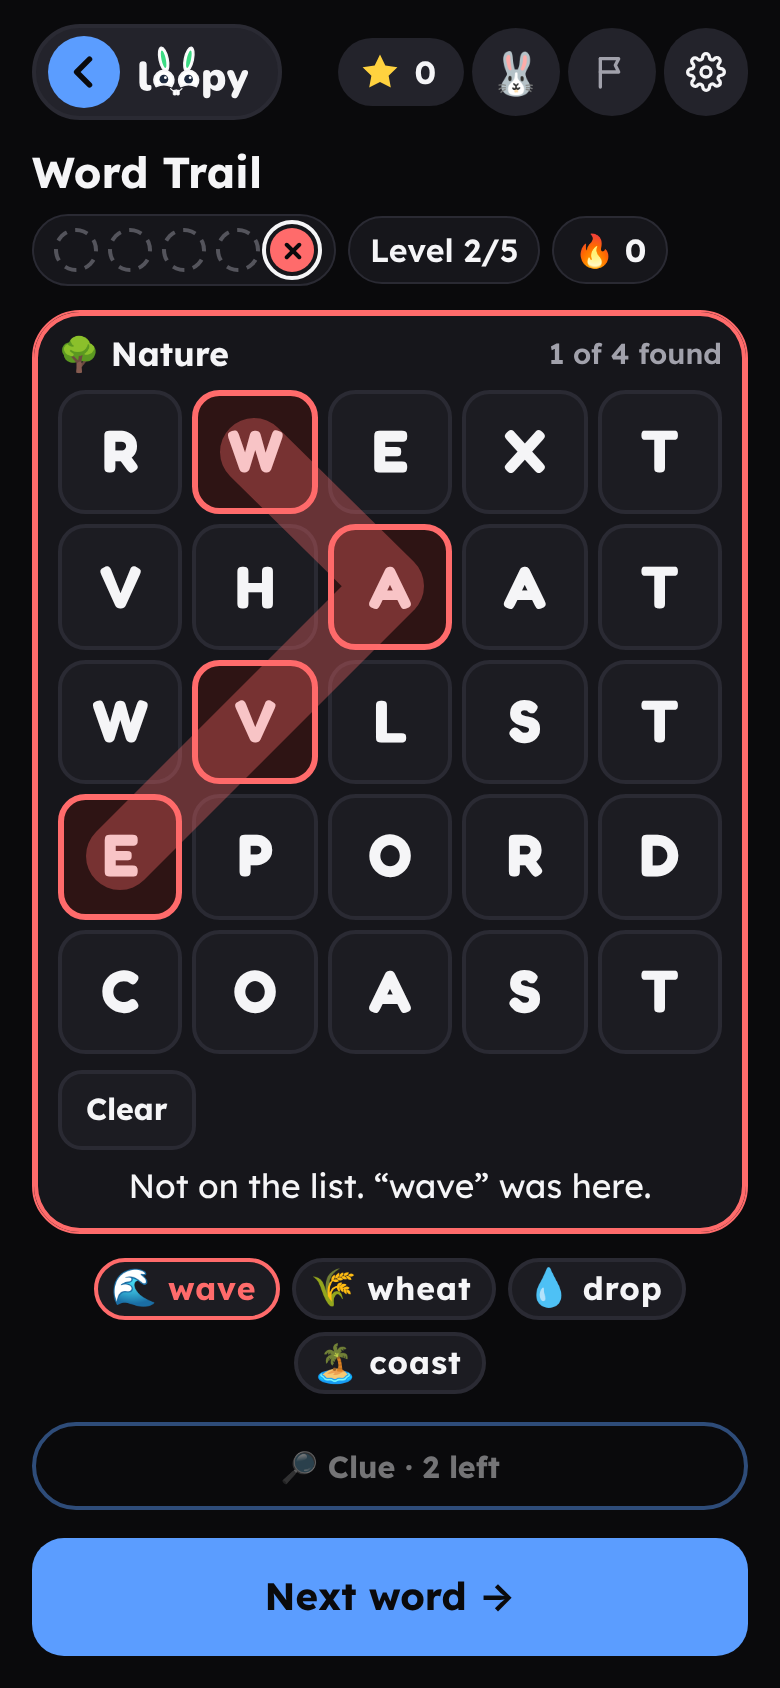
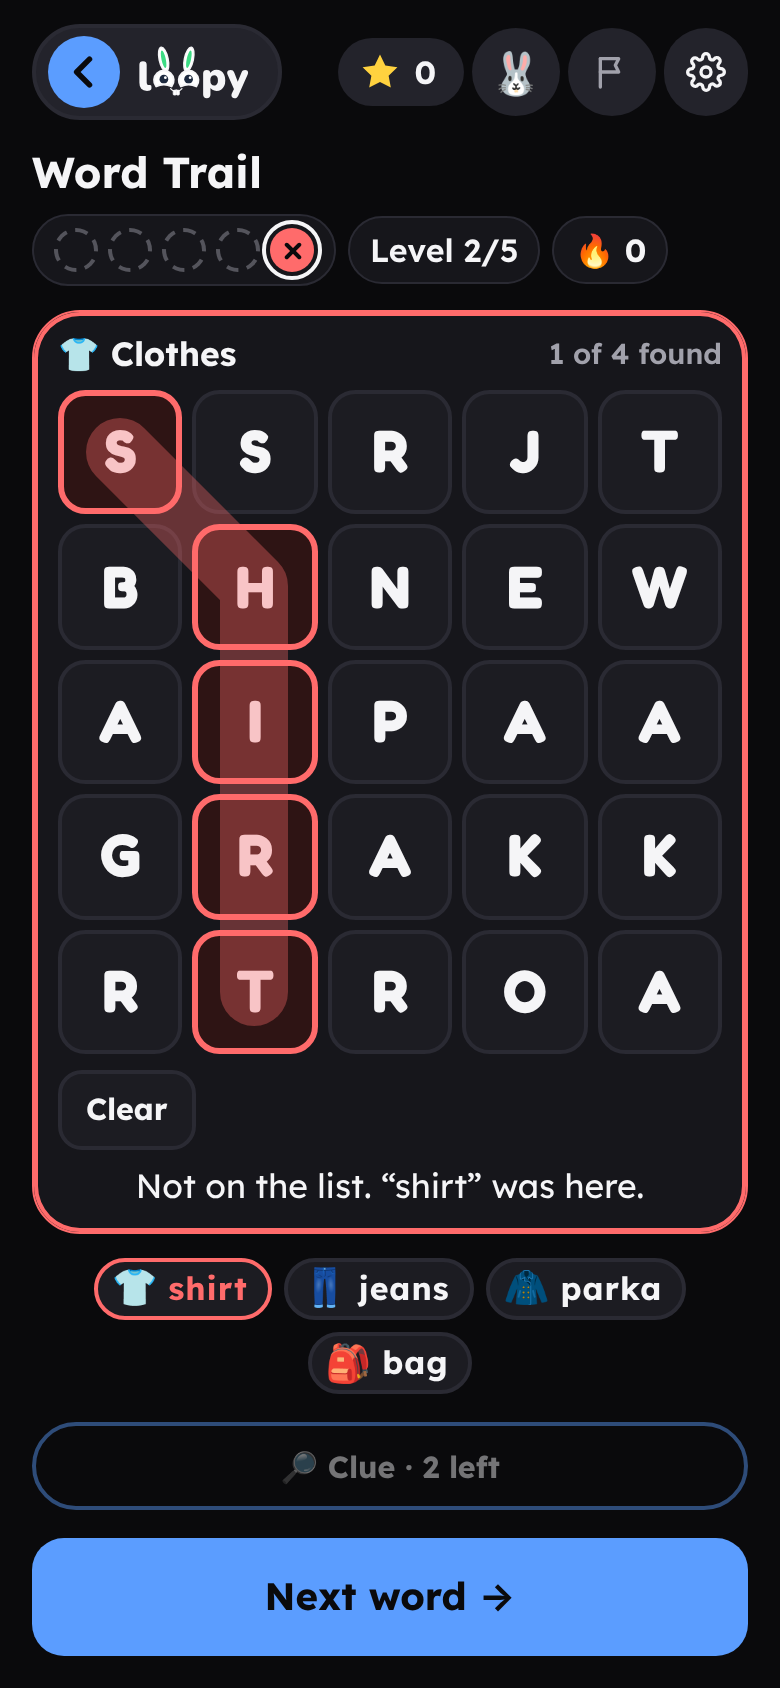
Word Trail: more room for the grid on a tablet held upright
The page is 760px wide on a tablet in portrait instead of 640px, so the
grid takes the room. Bigger letters in big cells, bigger word chips and
a taller Clue button on tablets. The word list sits under the card and
Clue stays at the bottom.

diff --git a/sw.js b/sw.js
@@ -1,5 +1,5 @@
 /* loopy: built from src/sw.js by tools/build.py. Do not edit this file, edit the source. */
-var VERSION="8db463a32160b3ad",FILES={"apple-touch-icon.png":"826eeeca90","fonts/atkinson-latin.woff2":"71c3e56f88","fonts/fredoka-latin-ext.woff2":"18a1723c87","fonts/fredoka-latin.woff2":"3facd28352","fonts/lexend-latin-ext.woff2":"b5d815d420","fonts/lexend-latin.woff2":"35a62e43ae","geography/flags-capitals/data.js":"b641089a33","geography/flags-capitals/":"64315fdff4","geography/where-is-it/data.js":"c8e0bf4f86","geography/where-is-it/":"b552768a16","help/":"822b6f2a39","icon-192.png":"571274d70c","icon-512.png":"dfd4ed3adf","icon-maskable-512.png":"981dcb84db","icon.svg":"3d1a9ed7fd","./":"57e5a7592d","languages/sentence-builder/":"a2606c7ae1","languages/sentence-builder/words.js":"15d02d630a","languages/sound-spell/":"0c2fde4438","languages/sound-spell/words.js":"100ac92ec5","languages/spell-it/":"001e0c3374","languages/spell-it/words.js":"72e87eaa4f","languages/spelling-quiz/":"b497a43315","languages/spelling-quiz/words.js":"9c90832137","languages/word-detective/":"a369dd7558","languages/word-detective/words.js":"62c5968b01","languages/word-match/":"ad5e3099c4","languages/word-trail/":"6421d50bd5","languages/words.js":"ad5f903a46","logo-white.svg":"f6a28d2294","logo.svg":"33f3453587","loopy-backup.js":"f92623ab2d","loopy-install.js":"3c3d79f3e7","loopy-levels.js":"814852b75c","loopy-report.js":"c374c981fa","loopy-sheet.js":"8866d2feb4","loopy-sync.js":"0866d61ab8","loopy.css":"de8276730d","loopy.js":"62f6b0d7c0","manifest.webmanifest":"32d1e2daa8","math/bigger-or-smaller/":"4e67dce547","math/box-multiply/":"cc580bc685","math/coins-change/":"535f5fc48f","math/equation-balance/":"c3315b3c55","math/graphs-data/":"ed5f74ef5d","math/make-10/":"e59ed6180e","math/percent-ratio/":"028a94dda4","math/pizza-fractions/":"1d479f211d","math/plus-minus/":"3cb953f5b6","math/plus-minus-100/":"b149fbb898","math/shapes-angles/":"67dbb0a627","math/step-by-step/":"ee65b66a50","math/times-share/":"c27b0e114f","math/times-sprint/":"ed564f3796","math/what-time-is-it/":"c6b02b8edd","mix/daily-mix/":"f9b732ca31","print.css":"619925ee48","privacy/":"a461f641db","progress/":"f1c7bea29f","science/quick-facts/data.js":"8196c98b79","science/quick-facts/":"753f191d5e","science/sort-it/data.js":"9abc4f3e8a","science/sort-it/":"d7f77a0a37"};
+var VERSION="ebf284c4321da787",FILES={"apple-touch-icon.png":"826eeeca90","fonts/atkinson-latin.woff2":"71c3e56f88","fonts/fredoka-latin-ext.woff2":"18a1723c87","fonts/fredoka-latin.woff2":"3facd28352","fonts/lexend-latin-ext.woff2":"b5d815d420","fonts/lexend-latin.woff2":"35a62e43ae","geography/flags-capitals/data.js":"b641089a33","geography/flags-capitals/":"64315fdff4","geography/where-is-it/data.js":"c8e0bf4f86","geography/where-is-it/":"b552768a16","help/":"822b6f2a39","icon-192.png":"571274d70c","icon-512.png":"dfd4ed3adf","icon-maskable-512.png":"981dcb84db","icon.svg":"3d1a9ed7fd","./":"57e5a7592d","languages/sentence-builder/":"a2606c7ae1","languages/sentence-builder/words.js":"15d02d630a","languages/sound-spell/":"0c2fde4438","languages/sound-spell/words.js":"100ac92ec5","languages/spell-it/":"001e0c3374","languages/spell-it/words.js":"72e87eaa4f","languages/spelling-quiz/":"b497a43315","languages/spelling-quiz/words.js":"9c90832137","languages/word-detective/":"a369dd7558","languages/word-detective/words.js":"62c5968b01","languages/word-match/":"ad5e3099c4","languages/word-trail/":"aac563a6ac","languages/words.js":"ad5f903a46","logo-white.svg":"f6a28d2294","logo.svg":"33f3453587","loopy-backup.js":"f92623ab2d","loopy-install.js":"3c3d79f3e7","loopy-levels.js":"814852b75c","loopy-report.js":"c374c981fa","loopy-sheet.js":"8866d2feb4","loopy-sync.js":"0866d61ab8","loopy.css":"de8276730d","loopy.js":"62f6b0d7c0","manifest.webmanifest":"32d1e2daa8","math/bigger-or-smaller/":"4e67dce547","math/box-multiply/":"cc580bc685","math/coins-change/":"535f5fc48f","math/equation-balance/":"c3315b3c55","math/graphs-data/":"ed5f74ef5d","math/make-10/":"e59ed6180e","math/percent-ratio/":"028a94dda4","math/pizza-fractions/":"1d479f211d","math/plus-minus/":"3cb953f5b6","math/plus-minus-100/":"b149fbb898","math/shapes-angles/":"67dbb0a627","math/step-by-step/":"ee65b66a50","math/times-share/":"c27b0e114f","math/times-sprint/":"ed564f3796","math/what-time-is-it/":"c6b02b8edd","mix/daily-mix/":"f9b732ca31","print.css":"619925ee48","privacy/":"a461f641db","progress/":"f1c7bea29f","science/quick-facts/data.js":"8196c98b79","science/quick-facts/":"753f191d5e","science/sort-it/data.js":"9abc4f3e8a","science/sort-it/":"d7f77a0a37"};
 var CACHE="loopy-"+VERSION;var LIST=new URL("loopy-files",self.location).href;var SAVED={};Object.keys(FILES).forEach(function(f){SAVED[new URL(f,self.location).href]=FILES[f];});function key(url){var u=new URL(url);u.search="";u.hash="";u.pathname=u.pathname.replace(/\/index\.html$/,"/").replace(/\/([^\/.]+)$/,"/$1/");return u.href;}
 function oldCopy(){return caches.keys().then(function(names){return Promise.all(names.filter(function(n){return n.indexOf("loopy-")===0&&n!==CACHE;}).map(function(n){return caches.open(n).then(function(cache){return cache.match(LIST).then(function(r){return r?r.json():null;}).then(function(list){if(!list||typeof list!=="object")return null;var same=Object.keys(SAVED).filter(function(url){return list[url]===SAVED[url];}).length;return{cache:cache,list:list,same:same};});}).catch(function(){return null;});}));}).then(function(copies){return copies.reduce(function(best,c){return c&&(!best||c.same>best.same)?c:best;},null);}).catch(function(){return null;});}
 function matches(res,want){if(!res||!self.crypto||!crypto.subtle)return Promise.resolve(!!res);return res.clone().arrayBuffer().then(function(buf){return crypto.subtle.digest("SHA-256",buf);}).then(function(d){return Array.prototype.map.call(new Uint8Array(d),function(b){return(b<16?"0":"")+b.toString(16);}).join("").slice(0,10)===want;},function(){return true;});}

diff --git a/languages/word-trail/index.html b/languages/word-trail/index.html
@@ -2,7 +2,7 @@
 <html lang="en">
 <head>
 <meta charset="utf-8">
-<meta http-equiv="Content-Security-Policy" content="default-src 'self'; script-src 'self' 'sha256-lAx0mTM6xN1UceBe24lCt9oUzZXwg/Sj3TcZuJAvhcE='; style-src 'self' 'sha256-z2P7kGW5Z05eCTjTZdYpc0vThTlOE9vmt97pVSvi2I4=' 'sha256-qxqld09sBl9KP7HcyMVqISsx5anYdMyEAaUoAncFj3Q=' 'sha256-RT1053JU5UiKvjrCUFx1rlhdFLMmgtuFJ9T8jnMeawQ=' 'sha256-ObADxb1T3nqBmc1SpGc+Tt0YGZLFv+0JaOUhIwKFlNk='; img-src 'self' data:; font-src 'self'; connect-src 'self' https://loopy-sync.loopy-1e2.workers.dev; worker-src 'self'; object-src 'none'; base-uri 'none'; form-action 'none'; manifest-src 'self'; upgrade-insecure-requests">
+<meta http-equiv="Content-Security-Policy" content="default-src 'self'; script-src 'self' 'sha256-lAx0mTM6xN1UceBe24lCt9oUzZXwg/Sj3TcZuJAvhcE='; style-src 'self' 'sha256-z2P7kGW5Z05eCTjTZdYpc0vThTlOE9vmt97pVSvi2I4=' 'sha256-qxqld09sBl9KP7HcyMVqISsx5anYdMyEAaUoAncFj3Q=' 'sha256-RT1053JU5UiKvjrCUFx1rlhdFLMmgtuFJ9T8jnMeawQ=' 'sha256-YYUDj2doCdN0V13HLDitm8qTdC5Oy36quKpZHCQ5GXs='; img-src 'self' data:; font-src 'self'; connect-src 'self' https://loopy-sync.loopy-1e2.workers.dev; worker-src 'self'; object-src 'none'; base-uri 'none'; form-action 'none'; manifest-src 'self'; upgrade-insecure-requests">
 <meta name="referrer" content="strict-origin-when-cross-origin">
 <meta name="viewport" content="width=device-width, initial-scale=1, viewport-fit=cover">
 <style>:root{color-scheme:light;padding-top:env(safe-area-inset-top,0px);padding-bottom:env(safe-area-inset-bottom,0px)}body{margin:0}[hidden]{display:none!important}</style>
@@ -99,7 +99,7 @@ body { min-height: 100vh; min-height: 100dvh; padding-block: 12px 16px; }
 .bar-right { display: flex; align-items: center; gap: 8px; }
 .top { gap: 8px 12px; }
 .play { display: flex; flex-direction: column; gap: 12px; -webkit-user-select: none; user-select: none; }
-@media (min-width: 600px) and (orientation: portrait) { .wrap { max-width: 640px; } }
+@media (min-width: 600px) and (orientation: portrait) { .wrap { max-width: 760px; } } /* wider than the other games: the grid is the whole game */
 @media (orientation: landscape) and (min-width: 640px) {
   .wrap { max-width: 1100px; }
   .play { display: grid; grid-template-columns: 1fr 1fr; gap: 16px; align-items: center; }
@@ -128,9 +128,14 @@ body { min-height: 100vh; min-height: 100dvh; padding-block: 12px 16px; }
   .side { flex: 1 1 auto; min-height: 0; display: flex; flex-direction: column; justify-content: space-between; gap: 10px; }
   .side .words { flex: 0 0 auto; }
 }
-/* Tablets upright: Clue sits under the word list instead of far down the page. */
+/* Tablets upright: bigger word chips and buttons; the word list sits under the card, Clue at the bottom. */
 @media (orientation: portrait) and (min-width: 600px) {
-  .side { justify-content: flex-start; gap: 14px; }
+  .side { gap: 16px; }
+  .words { gap: 10px; }
+  .wd { font-size: 1.2rem; padding: 7px 14px 7px 10px; }
+  .wd .e { font-size: 1.4rem; }
+  .more { min-height: 54px; font-size: 1.1rem; }
+  .next { font-size: 1.35rem; }
 }
 @media (orientation: landscape) and (min-width: 640px) {
   body { height: calc(100dvh - env(safe-area-inset-top, 0px) - env(safe-area-inset-bottom, 0px)); min-height: 0; display: flex; flex-direction: column; overflow: hidden; }
@@ -153,11 +158,11 @@ body { min-height: 100vh; min-height: 100dvh; padding-block: 12px 16px; }
 .cell {
   aspect-ratio: 1; min-width: 0; padding: 0; display: grid; place-items: center; cursor: pointer;
   border: 2px solid var(--line); border-radius: 22%; background: var(--key); color: var(--ink);
-  font-family: "Fredoka", var(--font); font-weight: 700; font-size: clamp(1rem, 4.6dvh, 1.7rem); font-size: clamp(1rem, 9cqw, 2.4rem); text-transform: uppercase; line-height: 1;
+  font-family: "Fredoka", var(--font); font-weight: 700; font-size: clamp(1rem, 4.6dvh, 1.7rem); font-size: clamp(1rem, 9cqw, 3rem); text-transform: uppercase; line-height: 1;
   -webkit-tap-highlight-color: transparent; -webkit-user-select: none; user-select: none;
 }
-.grid.n4 .cell { font-size: clamp(1rem, 11cqw, 2.8rem); }
-.grid.n6 .cell { font-size: clamp(0.95rem, 4dvh, 1.45rem); font-size: clamp(0.95rem, 7.5cqw, 2rem); }
+.grid.n4 .cell { font-size: clamp(1rem, 11cqw, 3.4rem); }
+.grid.n6 .cell { font-size: clamp(0.95rem, 4dvh, 1.45rem); font-size: clamp(0.95rem, 7.5cqw, 2.4rem); }
 .cell.on { background: var(--accent); border-color: var(--accent); color: var(--on-accent, #fff); transform: scale(1.06); z-index: 1; }
 .cell.w { background: var(--chip); border-width: 3px; }
 .cell.w1 { border-color: var(--c3); } .cell.w2 { border-color: var(--c4); } .cell.w3 { border-color: var(--c2); } .cell.w4 { border-color: var(--c1); } .cell.w5 { border-color: var(--c5); }
